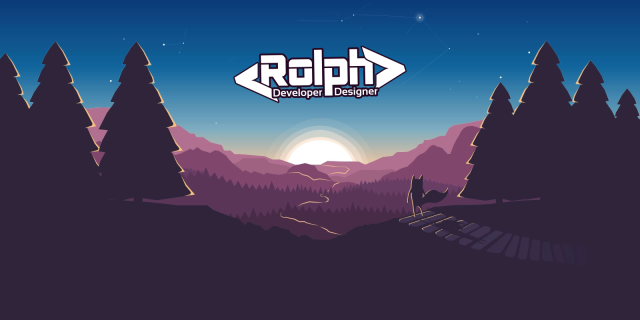
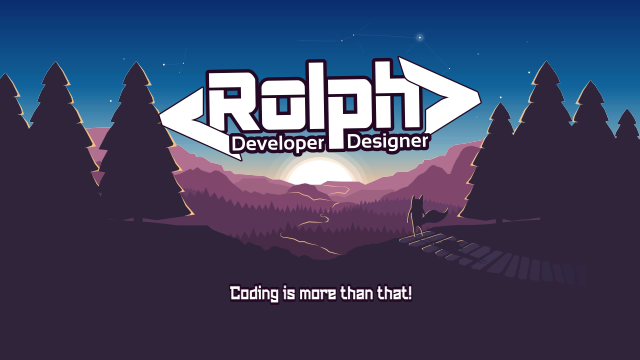
fix:(social-midia-preview)

diff --git a/index.html b/index.html
@@ -8,6 +8,8 @@
     <meta name="copyright" content="© 2021 rolph" />
     <meta http-equiv="X-UA-Compatible" content="IE=edge">
     <meta name="viewport" content="width=device-width, initial-scale=1.0">
+    <meta property="og:image" content="img/background-msocial.png"/>
+    <meta property="og:url" content="https://rolphmc.github.io/portfolio-rolph/"/>
     
     <title>Portfolio | @rolph - Developer and Designer</title>
     <link rel="icon" href="img/favicon-16x16.png">
